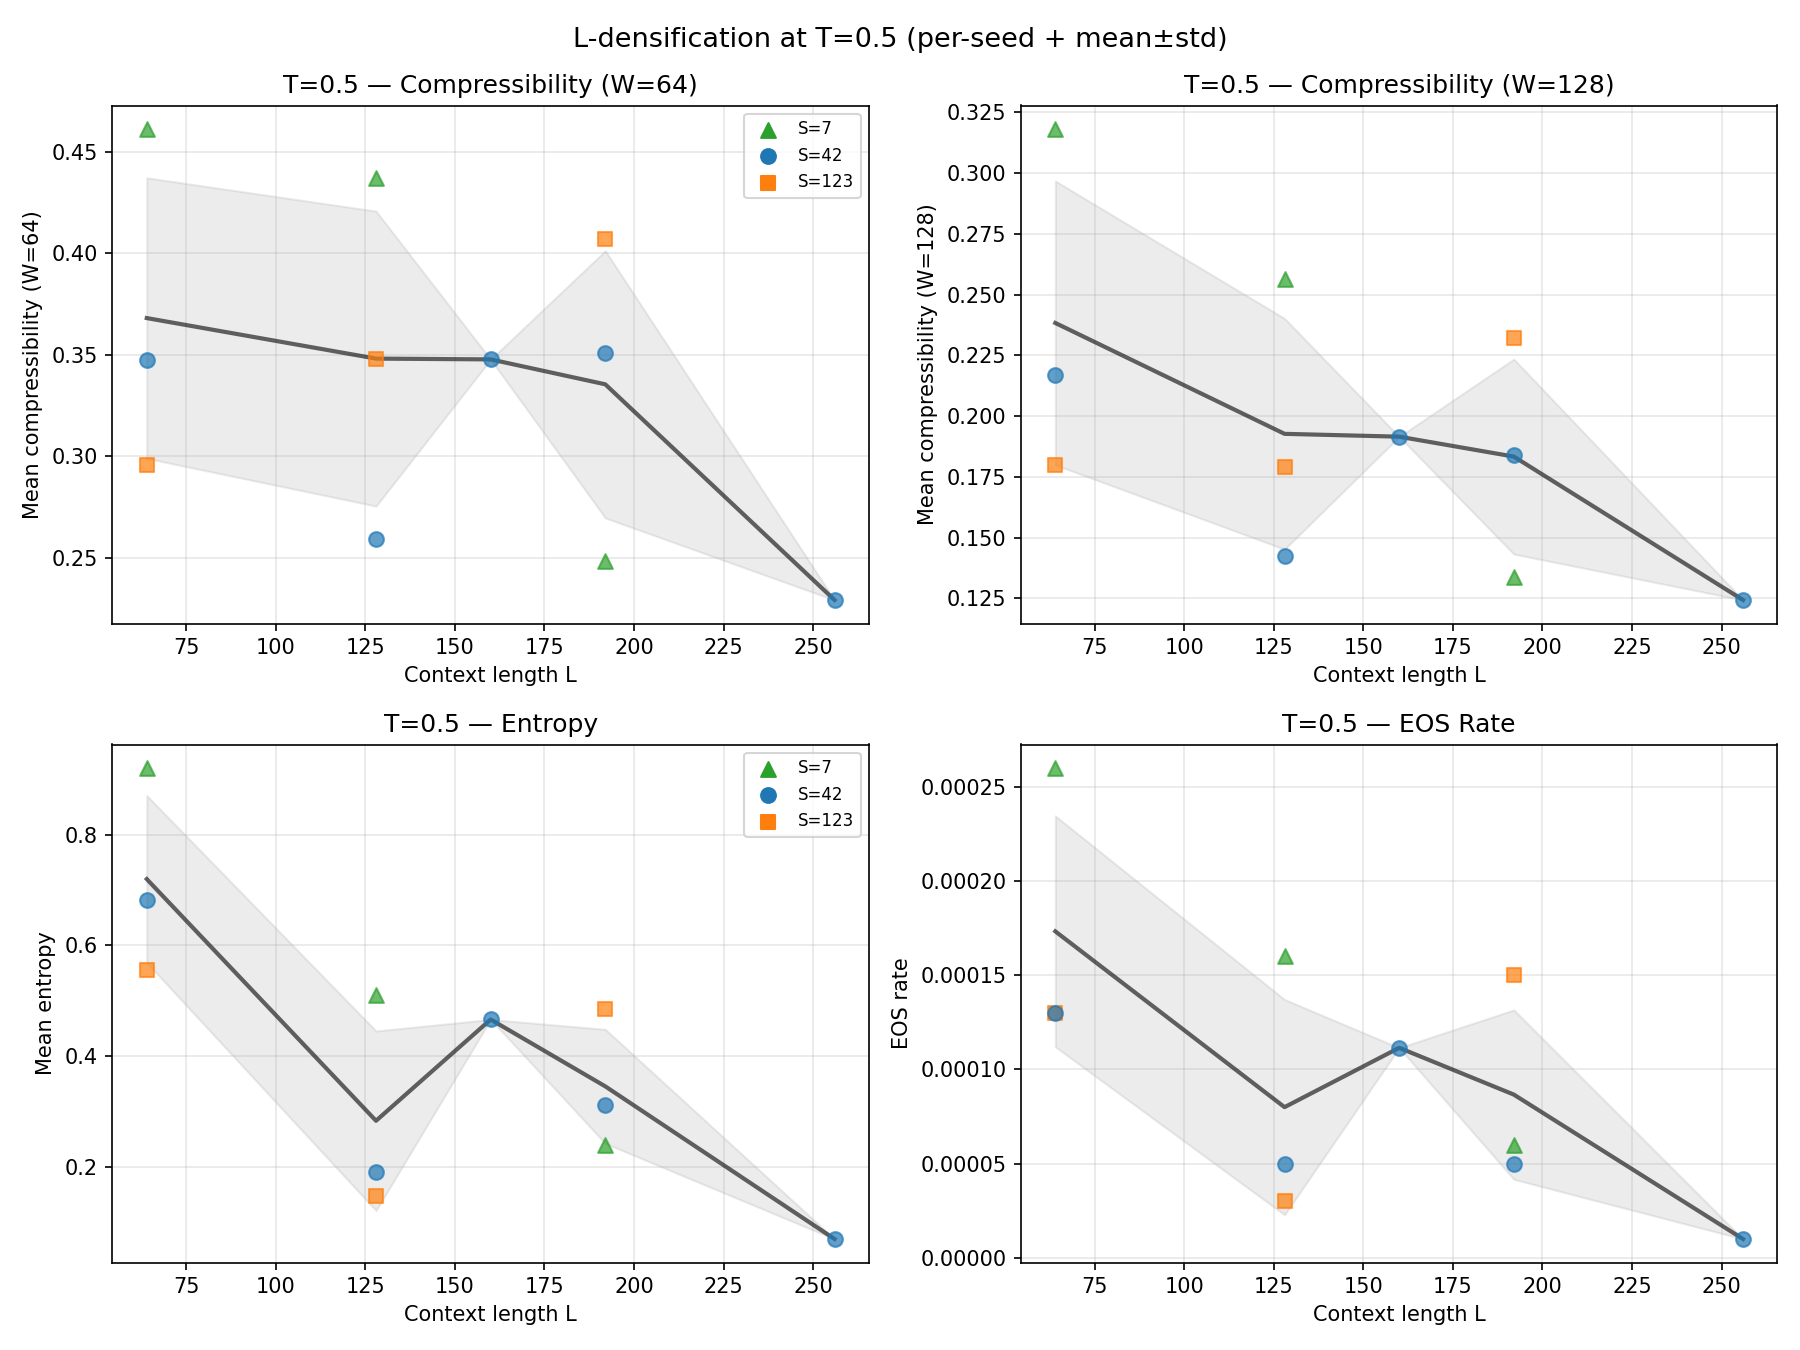
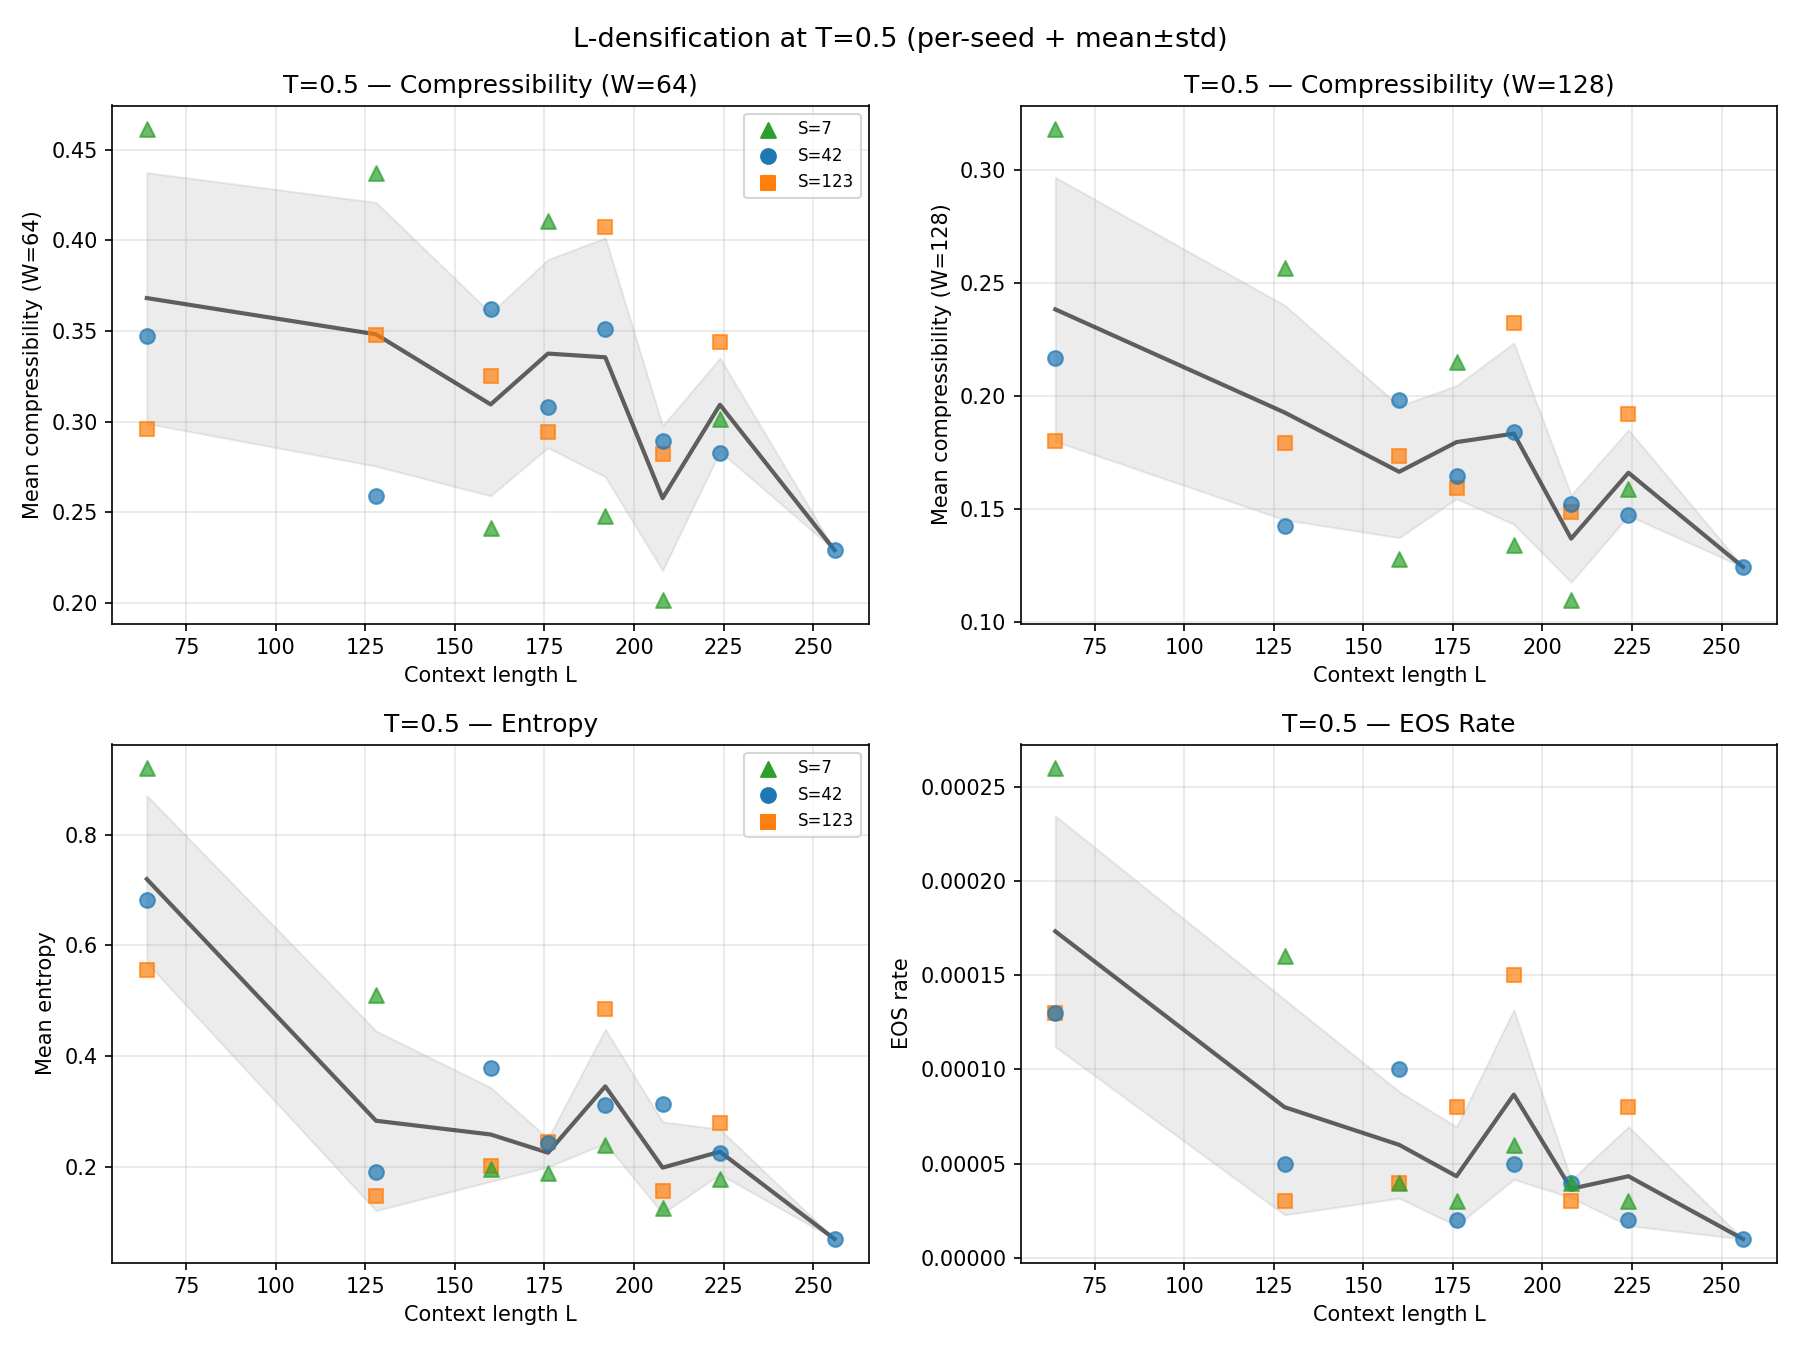
L-dense results: predictions scored, cross-T analysis, updated model summary
- observations.md: L-densification prediction scorecard (both hypotheses
  falsified — jagged profile, no clean phase transition), cross-T analysis
  revealing L-dependent collapse boundary and EOS peak shift, updated
  Current Model summary
- Regenerated plots with full L-dense data (all 8 L values × 3 seeds)
- run-index.md: 42 runs complete, next priorities (L=256 crossover fill)
- CLAUDE.md: updated findings and parameter ranges

diff --git a/observations.md b/observations.md
@@ -8,25 +8,32 @@ Append-only record of findings. Each entry includes reproduction commands.
 
 **System:** SmolLM-135M generating into its own context. No external input. Pure autoregressive dynamics.
 
-**Three regimes** at fixed L: collapse (T≤0.60), rich dynamics (T~0.80–1.00), noise (T≥1.50). Crossover zone is T~0.70–0.80.
-
 **Two orthogonal actuators:**
 - T (temperature): per-step noise floor. Controls escape probability from attractors.
-- L (context length): memory horizon. Controls attractor basin depth and stickiness.
+- L (context length): memory horizon. Controls attractor basin depth, stickiness, and collapse boundary.
 
-**Attractor structure at T=0.50 is a staircase, not a binary.** Each L value has a distinct entropy floor — L=64 sits on a high meta-stable basin (~0.2–0.4 nats), L=128 on a lower false floor (~0.1–0.2 nats) before eventually dropping to the true floor (~60k steps), L=256 hits the true zero-entropy floor by ~15k steps. Collapse is a timescale phenomenon: every T=0.50 run may collapse eventually; L sets how fast you descend the staircase.
+**Three regimes** at fixed L: collapse (T≤0.60), rich dynamics (T~0.80–1.00), noise (T≥1.50). Crossover zone is T~0.70–0.80. But the collapse boundary is L-dependent — longer L extends collapse upward in T.
 
-**L=192 anomaly at T=0.50:** Non-monotonic compressibility. At W=16, L=192 (1.19) > L=64 (1.05) > L=128 (0.90) > L=256 (0.78). L=192 appears to lock into a short-period loop attractor — highly structured locally but not at context scale. Awaiting seed replication (seeds 123, 7 running) to confirm vs. seed artifact.
+**Collapse boundary shifts with L.** At T=0.60: L=192 is collapsed (entropy 0.187) while L=64 (0.791) and L=128 (0.502) have escaped. The escape is sharp — at T=0.70 all L values jump above entropy 1.0. Longer context doesn't just deepen collapse, it extends the collapse regime to higher temperatures.
 
-**W (measurement window) is a third dimension.** Compressibility depends strongly on W. Standard grid: W ∈ {16, 32, 64, 128, 256}. At T=0.50, L-curves separate dramatically across W. At T≥0.90, L barely matters at any W. W=16 hits gzip overhead floor (compressibility > 1.0 is meaningless). Useful range: W≥32.
+**Attractor structure at T=0.50 is a staircase, not a binary.** Each L value has a distinct entropy floor — L=64 sits on a high meta-stable basin (~0.2–0.4 nats), L=128 on a lower false floor (~0.1–0.2 nats), L=256 hits the true zero-entropy floor by ~15k steps. Collapse is a timescale phenomenon: every T=0.50 run may collapse eventually; L sets how fast you descend the staircase.
 
-**EOS is regime-dependent.** At T=1.00: interior signal — fires from the dense center of phase space (richest dynamics). At T=0.50: transition signal — fires during escape attempts from attractors. EOS rate peaks at T=1.00, suppressed by L in collapse regime (13→3→1 across L=64/128/256 at T=0.50).
+**L-densification at T=0.50: jagged, not smooth.** L-profile from 64→256 is non-monotonic with local dips at L=208 and L=128, local peaks at L=176 and L=192. Seed variance (std 0.04–0.10) is comparable to inter-L differences (Δmean ~0.03–0.08) at n=3 seeds. The overall downward trend is robust; the fine structure may be noise. No clean phase transition or bifurcation point was found — the "critical L" hypothesis was falsified.
 
-**Crossover slope-flip at fixed W=64:** Compressibility *decreases* with L at T≤0.60 (deeper collapse = less local structure) but *increases* with L at T=1.00 (longer context = more structure). The sign flip occurs around T=0.70–0.80. This is the phase boundary in the L dimension.
+**Slope-flip in the T dimension.** Compressibility (W=64) *decreases* with L at T≤0.60 (deeper collapse = less local structure) but *increases* with L at T=1.00 (longer context = more structure). The sign flip occurs around T=0.70–0.80. This is the phase boundary in the L dimension.
 
-**Gzip measurement floor:** W=16 produces compressibility > 1.0 (gzip header overhead exceeds data). W≥32 is the useful measurement range.
+**EOS peak shifts with L.** Peak EOS rate occurs at T=0.90 for L=64 and L=128, but at T=0.70 for L=192. The EOS peak tracks the escape-from-collapse transition: it fires most at the boundary between structured and free dynamics. Since L=192's collapse extends to T=0.60, its escape boundary (and EOS peak) is at a lower T.
+
+**T=1.50 is a universal noise floor.** Compressibility ~0.705 and entropy ~8.0–8.3 regardless of L. At high T, context length is irrelevant — thermal noise dominates.
+
+**W (measurement window) is a third dimension.** Compressibility depends strongly on W. Standard grid: W ∈ {16, 32, 64, 128, 256}. At T=0.50, L-curves separate dramatically across W. At T≥0.90, L barely matters at any W. Gzip has fixed overhead (~20B header + Huffman table); at W=16 this inflates ratios above 1.0. Useful range: W≥64 for quantitative work, W≥32 qualitatively. Correction possible by normalizing against incompressible baseline at matched byte length.
 
 **Three-sensor framework:** entropy (model uncertainty), compressibility (observer-assessed structure), EOS rate (model-assessed coherence). Each probes a different aspect. All three needed for regime identification.
+
+**Open questions:**
+- What is L=192's exact escape temperature? Somewhere in T=0.60–0.70. T-densification at T={0.62, 0.65, 0.68} would pin it.
+- Does L=256 extend collapse even further in T? Gap at T={0.60–0.90} is the biggest hole in the grid.
+- Is the T=1.00 compressibility increase with L (0.739→0.785) robust across seeds?
 
 ---
 
@@ -337,3 +344,125 @@ for L in [64, 128, 192, 256]:
 **Alternative hypothesis:** The non-monotonicity is a broad plateau rather than a sharp transition — L=160 through L=224 all show similar elevated dynamics, with L=128 and L=256 as the special cases (collapse points) rather than L=192 being special.
 
 **What would falsify these:** If L=160 shows the same elevated dynamics as L=192, the bifurcation is below L=160 and the "plateau" model wins. If L=176 collapses deep like L=128, the transition is sharp and narrow around L=192.
+
+---
+
+### 2026-03-09 — L-densification Results: Predictions vs Reality
+
+**Data:** L={160, 176, 208, 224} × S={42, 123, 7} at T=0.50, 15 runs complete. Combined with existing L={64, 128, 192, 256} data for full profile.
+
+**Compressibility (W=64) seed-averaged across L:**
+
+| L | S=42 | S=123 | S=7 | mean | std |
+|---|------|-------|-----|------|-----|
+| 64 | 0.347 | 0.296 | 0.461 | 0.368 | 0.069 |
+| 128 | 0.259 | 0.348 | 0.437 | 0.348 | 0.073 |
+| 160 | 0.362 | 0.325 | 0.241 | 0.310 | 0.050 |
+| 176 | 0.308 | 0.294 | 0.410 | 0.338 | 0.052 |
+| 192 | 0.351 | 0.407 | 0.248 | 0.335 | 0.066 |
+| 208 | 0.290 | 0.282 | 0.202 | 0.258 | 0.040 |
+| 224 | 0.283 | 0.344 | 0.301 | 0.309 | 0.026 |
+| 256 | 0.229 | — | — | 0.229 | — |
+
+**Entropy mean across L:**
+
+| L | S=42 | S=123 | S=7 | mean | std |
+|---|------|-------|-----|------|-----|
+| 64 | 0.683 | 0.556 | 0.920 | 0.720 | 0.151 |
+| 128 | 0.191 | 0.147 | 0.511 | 0.283 | 0.162 |
+| 160 | 0.378 | 0.201 | 0.195 | 0.258 | 0.085 |
+| 176 | 0.242 | 0.244 | 0.189 | 0.225 | 0.026 |
+| 192 | 0.311 | 0.485 | 0.239 | 0.345 | 0.103 |
+| 208 | 0.314 | 0.155 | 0.125 | 0.198 | 0.083 |
+| 224 | 0.225 | 0.278 | 0.178 | 0.227 | 0.041 |
+| 256 | 0.069 | — | — | 0.069 | — |
+
+**Prediction scorecard:**
+
+1. **L=160 "behaves like L=128"** — WRONG. Mean comp 0.310 (lower than L=128's 0.348), entropy 0.258. Not deep collapse — sits in the mid-range. The transition is below L=160.
+
+2. **L=176 "transition zone, seed-dependent"** — PARTIALLY RIGHT on seed-dependence (S=7 at 0.41 vs S=123 at 0.29), WRONG that it's a boundary. Just more of the same plateau.
+
+3. **L=208 "behaves like L=192"** — WRONG in an interesting way. L=208 shows the *lowest* compressibility in the mid-range (0.258 mean, entropy 0.198). It's actually the deepest collapser between L=128 and L=256.
+
+4. **L=224 "approaching L=256"** — WRONG. Bounces back up (0.309) instead of continuing descent.
+
+**Both hypotheses falsified.** No sharp bifurcation (the "critical L" model) and no broad plateau (the "flat" model). Instead: **the L-profile is jagged and non-monotonic**, with local dips at L=208 and L=128, and local peaks at L=176 and L=192. The pattern resembles interference between context-length-dependent attractor structures rather than a smooth phase transition.
+
+**Key takeaway:** At T=0.50, seed variance (std 0.04–0.10) is comparable to the differences between adjacent L values (Δmean ~0.03–0.08). With n=3 seeds, we cannot reliably resolve whether the jagged profile is reproducible structure or sampling noise. However, the overall downward trend from L=64 to L=256 is robust across all seeds.
+
+**What this means for the project:** The L-dimension at fixed T=0.50 has diminishing returns. The more interesting question is how the L-profile *changes shape across T* — the T×L interaction.
+
+```bash
+python plot_window_scaling.py --temps 0.50 --ldense
+```
+
+---
+
+### 2026-03-09 — Cross-T Analysis: Collapse Boundary is L-dependent
+
+**Data:** Full S=42 grid — L={64, 128, 192} × T={0.50–1.50}, L=256 × T={0.50, 1.00, 1.50}.
+
+**Compressibility (W=64) across T (S=42):**
+
+| L \ T | 0.50 | 0.60 | 0.70 | 0.80 | 0.90 | 1.00 | 1.50 |
+|-------|------|------|------|------|------|------|------|
+| 64 | 0.347 | 0.481 | 0.614 | 0.682 | 0.715 | 0.739 | 0.705 |
+| 128 | 0.259 | 0.334 | 0.547 | 0.628 | 0.713 | 0.757 | 0.702 |
+| 192 | 0.351 | 0.313 | 0.556 | 0.603 | 0.697 | 0.785 | 0.704 |
+| 256 | 0.229 | — | — | — | — | 0.743 | 0.705 |
+
+**Entropy mean across T (S=42):**
+
+| L \ T | 0.50 | 0.60 | 0.70 | 0.80 | 0.90 | 1.00 | 1.50 |
+|-------|------|------|------|------|------|------|------|
+| 64 | 0.683 | 0.791 | 1.599 | 2.220 | 2.755 | 3.721 | 7.989 |
+| 128 | 0.191 | 0.502 | 1.149 | 1.642 | 2.858 | 4.168 | 8.207 |
+| 192 | 0.311 | 0.187 | 1.114 | 1.618 | 2.868 | 4.691 | 8.301 |
+| 256 | 0.069 | — | — | — | — | 4.917 | 8.342 |
+
+**EOS rate across T (S=42):**
+
+| L \ T | 0.50 | 0.60 | 0.70 | 0.80 | 0.90 | 1.00 | 1.50 |
+|-------|------|------|------|------|------|------|------|
+| 64 | 0.00013 | 0.00035 | 0.00057 | 0.00074 | 0.00092 | 0.00091 | 0.00063 |
+| 128 | 0.00005 | 0.00032 | 0.00055 | 0.00076 | 0.00104 | 0.00077 | 0.00053 |
+| 192 | 0.00005 | 0.00007 | 0.00083 | 0.00071 | 0.00087 | 0.00065 | 0.00048 |
+| 256 | 0.00001 | — | — | — | — | 0.00057 | 0.00046 |
+
+**Key findings:**
+
+1. **L=192 extends collapse into T=0.60.** Entropy 0.187, compressibility 0.313, EOS rate 0.00007. Meanwhile L=64 (entropy 0.791) and L=128 (entropy 0.502) have escaped collapse at T=0.60. Longer context doesn't just deepen collapse — it extends the collapse regime upward in T.
+
+2. **Sharp escape at T=0.70.** All L values jump to entropy >1.0 and compressibility >0.55 at T=0.70. The collapse-to-escape transition is abrupt in T, regardless of L. This suggests T=0.65 may be the critical temperature for L=192 — a natural target for further densification.
+
+3. **EOS peak shifts with L.** Peak EOS rate occurs at T=0.90 for L=128 (0.00104), at T=0.90 for L=64 (0.00092), but at T=0.70 for L=192 (0.00083). The EOS peak tracks the escape-from-collapse transition: it fires most when the system is on the boundary between structured and free dynamics.
+
+4. **T=1.50 is a universal noise floor.** Compressibility ~0.705 and entropy ~8.0-8.3 regardless of L. At high T, context length is irrelevant — thermal noise dominates.
+
+5. **T=1.00 compressibility *increases* with L** (0.739 → 0.757 → 0.785). The opposite of T=0.50 where comp generally decreases with L. At T=1.00, longer context enriches structure rather than deepening collapse. This confirms the "slope-flip" noted in earlier observations — the sign of dC/dL reverses somewhere in the crossover.
+
+**Priorities:**
+- Fill L=256 × T={0.60, 0.70, 0.80, 0.90} to see how far L=256 extends the collapse regime (4 runs)
+- Consider T-densification at T={0.62, 0.65, 0.68} for L=192 to pin the escape temperature
+- Cross-T heatmap visualization needed — current plotting tools show fixed-T slices but not T×L interaction
+
+```bash
+# Reproduction
+python -c "
+import pickle, numpy as np
+from pathlib import Path
+for L in [64, 128, 192, 256]:
+    for T in [0.50, 0.60, 0.70, 0.80, 0.90, 1.00, 1.50]:
+        for pat in [f'data/runs/L{L:04d}_T{T:.2f}_S42.analysis.pkl',
+                    f'data/runs/L{L:04d}_T{T:.2f}_S42.W16_W32_W64_W128_W256.analysis.pkl']:
+            p = Path(pat)
+            if p.exists():
+                with open(p, 'rb') as f:
+                    data = pickle.load(f)
+                v = data['compressibility'][64]
+                valid = v[~np.isnan(v)]
+                print(f'L={L} T={T:.2f}: comp_W64={valid.mean():.4f} entropy={data[\"summary\"][\"entropy_mean\"]:.4f} eos={data[\"summary\"][\"eos_rate\"]:.6f}')
+                break
+"
+```

diff --git a/CLAUDE.md b/CLAUDE.md
@@ -80,27 +80,27 @@ Scripts, not a package. No `src/` layout. Add modules only when genuinely needed
 - `pilot_sweep.py`, `crossover_sweep.py`, `seed_sweep.py`, `ldense_sweep.py`: batch runners (idempotent, crash-resilient)
 
 ### Data Collected (see run-index.md for full grid)
-- 24 seed=42 runs complete: L={64,128,192} × T={0.50–1.50} + L=256 × T={0.50,1.00,1.50}
-- Seed replication (123, 7) in progress via seed_sweep.py
-- L-densification sweep running: L={160,176,192,208,224} × S={42,123,7} at T=0.50 via ldense_sweep.py
-- Dense crossover coverage: T={0.50, 0.60, 0.70, 0.80, 0.90, 1.00, 1.50} at L={64,128,192}
+- 24 seed=42 runs: L={64,128,192} × T={0.50–1.50} + L=256 × T={0.50,1.00,1.50}
+- Seed replication at T=0.50: L={64,128,192} × S={42,123,7} complete
+- L-densification at T=0.50: L={160,176,208,224} × S={42,123,7} complete (ldense_sweep.py)
+- Total: ~46 runs across all conditions
 
 ### Key Findings (see observations.md)
-- Three distinct regimes: collapse (T=0.5), rich dynamics (T=1.0), noise (T=1.5)
+- Three regimes: collapse (T≤0.60), rich dynamics (T~0.80–1.00), noise (T≥1.50)
 - T and L are orthogonal actuators: T = noise floor, L = memory depth / attractor stickiness
-- L=64 escapes collapse attractors; L=256 locks in permanently
-- At T=1.0, L=256 shifts operating point without collapse — different equilibrium
-- W=L/4 and W=L compressibility decouple in the interesting regime
-- EOS rate peaks at T=1.0; L suppresses EOS dramatically in collapse regime
+- Collapse boundary is L-dependent: L=192 collapsed at T=0.60 while L=64/128 have escaped
+- Sharp escape at T=0.70 regardless of L — all jump above entropy 1.0
+- EOS peak shifts with L: tracks escape-from-collapse boundary
+- L-densification at T=0.50: jagged non-monotonic profile, no clean phase transition
+- Slope-flip: comp decreases with L at T≤0.60, increases at T=1.00; sign flip at T~0.70–0.80
 - Three-sensor framework: entropy, compressibility, EOS rate
-- Crossover region T=0.6–0.9 now densely sampled
 - "Memory-depth annealing": L-reduction as escape mechanism from stuck attractors
 
 ### Key Parameters
 - Model: SmolLM-135M (local at `data/model/SmolLM-135M/`)
-- Context lengths L: 64, 128, 192, 256
+- Context lengths L: 64, 128, 160, 176, 192, 208, 224, 256
 - Temperatures T: 0.50, 0.60, 0.70, 0.80, 0.90, 1.00, 1.50
-- Seeds: 42 (complete); 123, 7 (planned replication)
+- Seeds: 42 (all conditions); 123, 7 (T=0.50 + L-dense conditions)
 - Tokens per run: 100,000 (post-pre-fill)
 - Sampling: pure temperature scaling, no top-k/top-p
 

diff --git a/run-index.md b/run-index.md
@@ -10,28 +10,32 @@ Model: SmolLM-135M | Tokens per run: 100,000 (post-pre-fill) | Sampling: pure te
 
 **Crossover densification**: L={64, 128, 192} × T={0.60, 0.70, 0.80, 0.90} × seed=42
 
-Total: 31 runs complete.
+Total: 42 runs complete.
 
 | L \ T | 0.50 | 0.60 | 0.70 | 0.80 | 0.90 | 1.00 | 1.50 |
 |-------|------|------|------|------|------|------|------|
 | 64    | 42,123,7 | 42 | 42 | 42 | 42 | 42 | 42 |
 | 128   | 42,123,7 | 42 | 42 | 42 | 42 | 42 | 42 |
-| 160   | 42   |      |      |      |      |      |      |
-| 176   |      |      |      |      |      |      |      |
+| 160   | 42,123,7 |    |    |    |    |    |    |
+| 176   | 42,123,7 |    |    |    |    |    |    |
 | 192   | 42,123,7 | 42 | 42 | 42 | 42 | 42 | 42 |
-| 208   |      |      |      |      |      |      |      |
-| 224   |      |      |      |      |      |      |      |
+| 208   | 42,123,7 |    |    |    |    |    |    |
+| 224   | 42,123,7 |    |    |    |    |    |    |
 | 256   | 42   |      |      |      |      | 42   | 42   |
 
 Cells show seed numbers for completed runs. Empty = not yet run.
 
-### In Progress: L-densification
+### Next: L=256 Crossover Fill
 
-`ldense_sweep.py`: L={160, 176, 192, 208, 224} × S={42, 123, 7} at T=0.50. Maps the non-monotonic compressibility boundary between L=128 and L=256. ~11 hours overnight.
+L=256 × T={0.60, 0.70, 0.80, 0.90} × S=42 — 4 runs. Fills the biggest gap in the grid and answers whether L=256 extends collapse further into T than L=192.
+
+### Optional: L=192 Escape Temperature
+
+L=192 × T={0.62, 0.65, 0.68} × S=42 — 3 runs. Pins the exact escape temperature between T=0.60 (collapsed) and T=0.70 (escaped).
 
 ### Paused: Seed Replication
 
-Seeds 123 and 7 via `seed_sweep.py` (48 runs total, 5 complete). Paused in favor of L-densification. Remaining runs cover crossover T=0.60–0.90 and T=1.00/1.50.
+Seeds 123 and 7 via `seed_sweep.py` (48 runs total, 11 complete at T=0.50). Remaining runs cover crossover T=0.60–0.90 and T=1.00/1.50. Lower priority — cross-T analysis is more informative than more seeds.
 
 ### Planned: L=256 Crossover Fill
 
